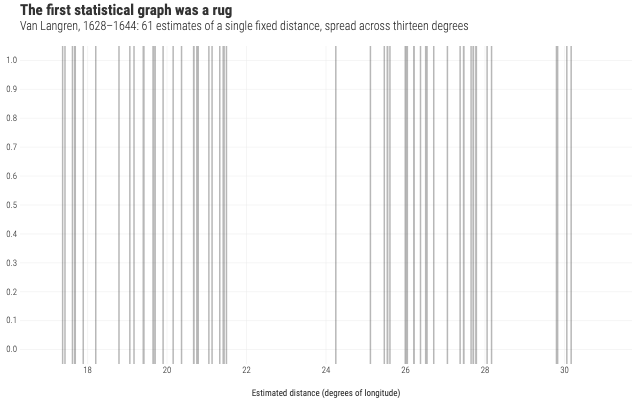
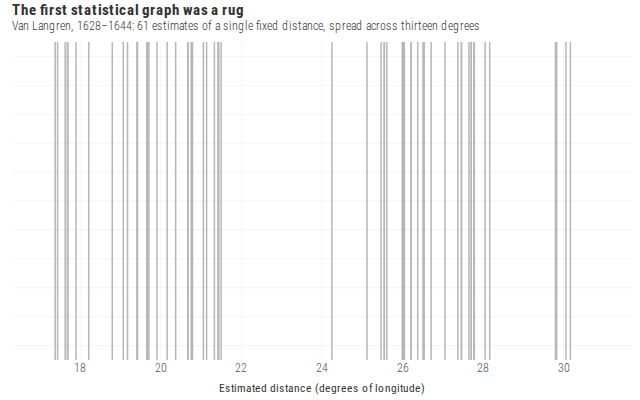
fix(examples): suppress meaningless y axis on rug plot (#700)
guideNone() already hides position axes. Use it on the van Langren rug
so the synthetic 0–1 y ladder is not drawn. Regression tests lock the
default (ladder present) and both guides.y / scale.guide suppress paths.

diff --git a/packages/core/tests/pipeline-responsive-guides.test.ts b/packages/core/tests/pipeline-responsive-guides.test.ts
@@ -696,3 +696,59 @@ describe("responsive guide planning", () => {
     expect(hidden.scene.legends).toHaveLength(0);
   });
 });
+
+/**
+ * #700 — rug plots (vertical rules with only aes.x) train a synthetic y
+ * domain of [0, 1] so panel-spanning marks have a range. Without an explicit
+ * suppress, that domain renders a full 0.0…1.0 y-axis ladder of meaningless
+ * ink. guideNone() on y is the supported way to hide it.
+ */
+describe("rug plot y-axis suppression (#700)", () => {
+  const rugRows = [{ longitude: 18.1 }, { longitude: 22.4 }, { longitude: 29.7 }];
+
+  it("default rug still draws a synthetic 0–1 y tick ladder", () => {
+    const result = runPipeline(
+      gg(rugRows, aes({ x: "longitude" }))
+        .geomRule()
+        .spec(),
+      { width: 640, height: 400 },
+    );
+    const labels = (result.scene.panels[0]?.axisY ?? []).map((tick) => tick.label);
+    expect(labels).toContain("0.0");
+    expect(labels).toContain("1.0");
+  });
+
+  it("guides.y = none removes the y axis (panel + scene title)", () => {
+    const result = runPipeline(
+      gg(rugRows, aes({ x: "longitude" }))
+        .geomRule()
+        .guides({ y: guideNone() })
+        .spec(),
+      { width: 640, height: 400 },
+    );
+    expect(result.scene.panels[0]?.axisY).toBeNull();
+    expect(result.scene.axes.y.title).toBe("");
+    const svg = renderToSVGString(
+      gg(rugRows, aes({ x: "longitude" }))
+        .geomRule()
+        .guides({ y: guideNone() })
+        .spec(),
+      { width: 640, height: 400 },
+    );
+    expect(svg).not.toContain(">0.0</text>");
+    expect(svg).not.toContain(">1.0</text>");
+    // x axis still present for the distribution
+    expect(svg).toMatch(/>1[89]</);
+  });
+
+  it("scale-local guide: none also hides the y axis", () => {
+    const result = runPipeline(
+      gg(rugRows, aes({ x: "longitude" }))
+        .geomRule()
+        .scales({ y: { guide: guideNone() } })
+        .spec(),
+      { width: 640, height: 400 },
+    );
+    expect(result.scene.panels[0]?.axisY).toBeNull();
+  });
+});

diff --git a/examples/rule/data-driven/spec.ts b/examples/rule/data-driven/spec.ts
@@ -1,4 +1,4 @@
-import { aes, gg } from "@ggsvelte/spec";
+import { aes, gg, guideNone } from "@ggsvelte/spec";
 
 import { defineExample } from "../../define.js";
 import { longitudeEstimates } from "./data.js";
@@ -8,8 +8,12 @@ export default defineExample(
   // spanning the panel. Van Langren's own graph was exactly this - a
   // one-dimensional strip of the estimates - which makes the rug not a
   // restyling of his chart but a reconstruction of it.
+  //
+  // y is synthetic for panel-spanning vertical rules; suppress the 0–1
+  // axis ladder (#700).
   gg(longitudeEstimates, aes({ x: "longitude" }))
     .geomRule({ alpha: 0.35, linewidth: 1.5 })
+    .guides({ y: guideNone() })
     .theme("minimal")
     .labs({
       title: "The first statistical graph was a rug",

diff --git a/examples/rule/data-driven/Example.svelte b/examples/rule/data-driven/Example.svelte
@@ -1,5 +1,11 @@
 <script lang="ts">
-  import { GeomRule, GGPlot, Labs, ThemeMinimal } from "@ggsvelte/svelte";
+  import {
+    GeomRule,
+    GGPlot,
+    GuideNone,
+    Labs,
+    ThemeMinimal,
+  } from "@ggsvelte/svelte";
 
   import { longitudeEstimates } from "./data.js";
 </script>
@@ -16,5 +22,7 @@
     subtitle="Van Langren, 1628–1644: 61 estimates of a single fixed distance, spread across thirteen degrees"
     x="Estimated distance (degrees of longitude)"
   />
+  <!-- y is synthetic for panel-spanning vertical rules; hide the 0–1 ladder (#700) -->
+  <GuideNone channel="y" />
   <GeomRule alpha={0.35} linewidth={1.5} />
 </GGPlot>
